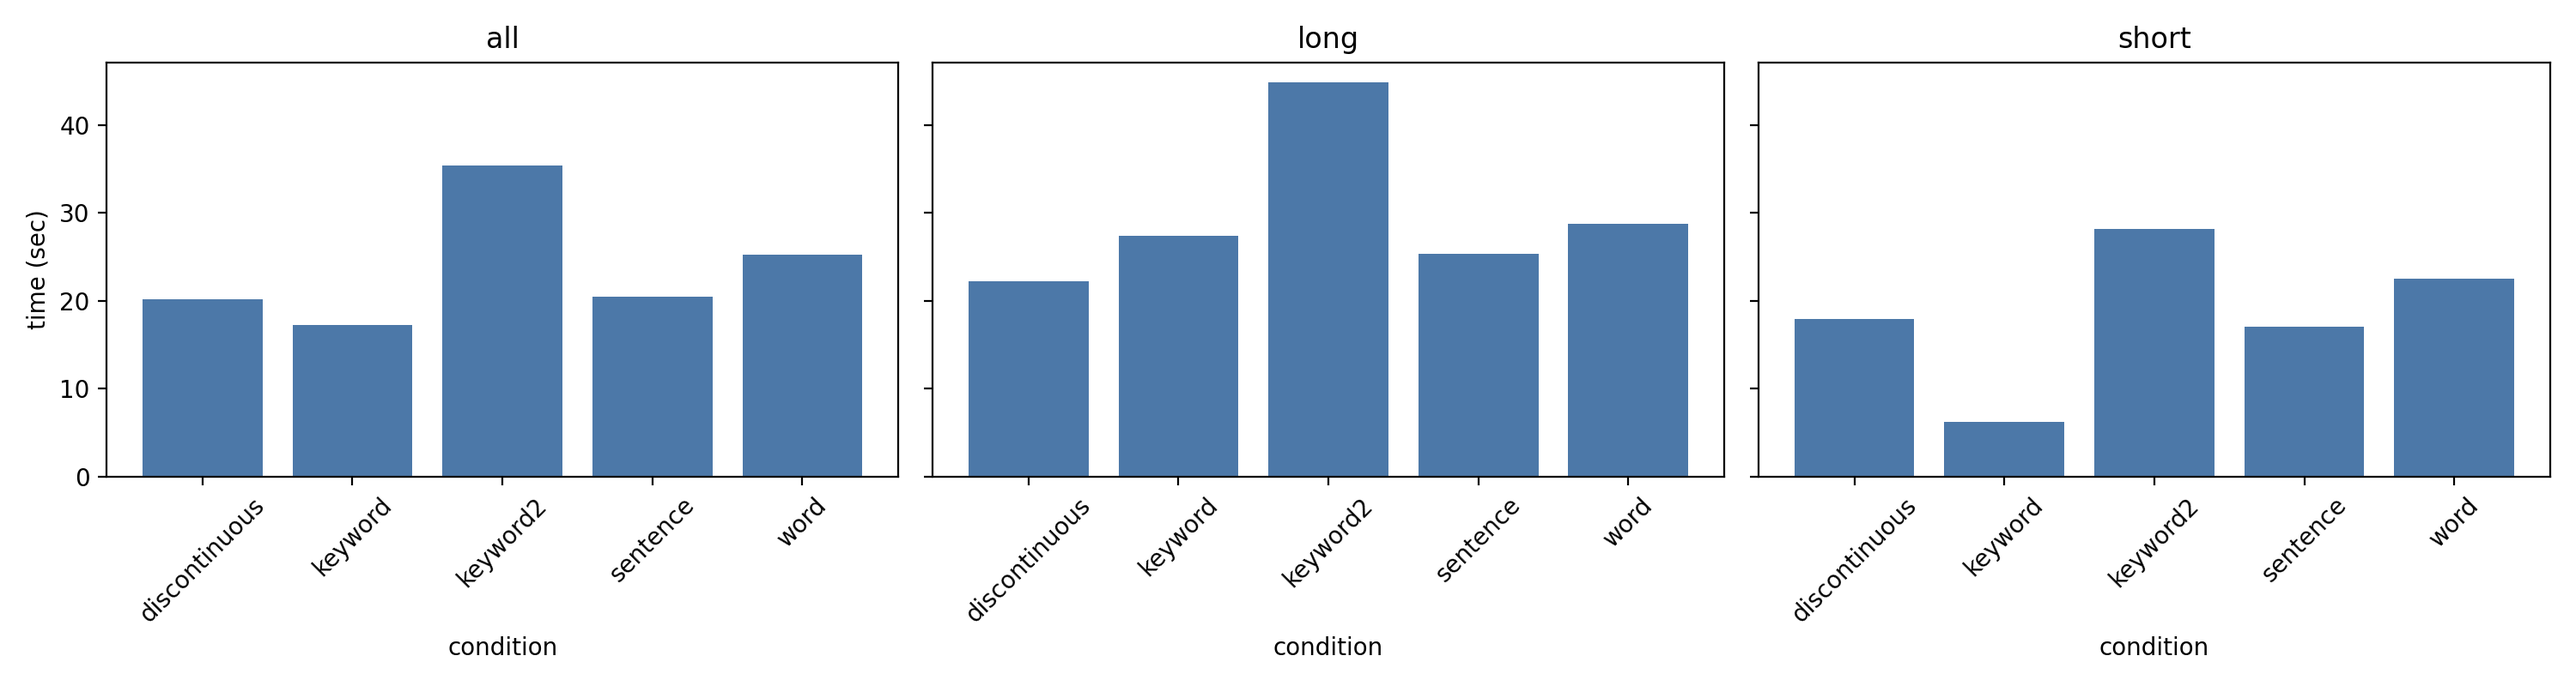
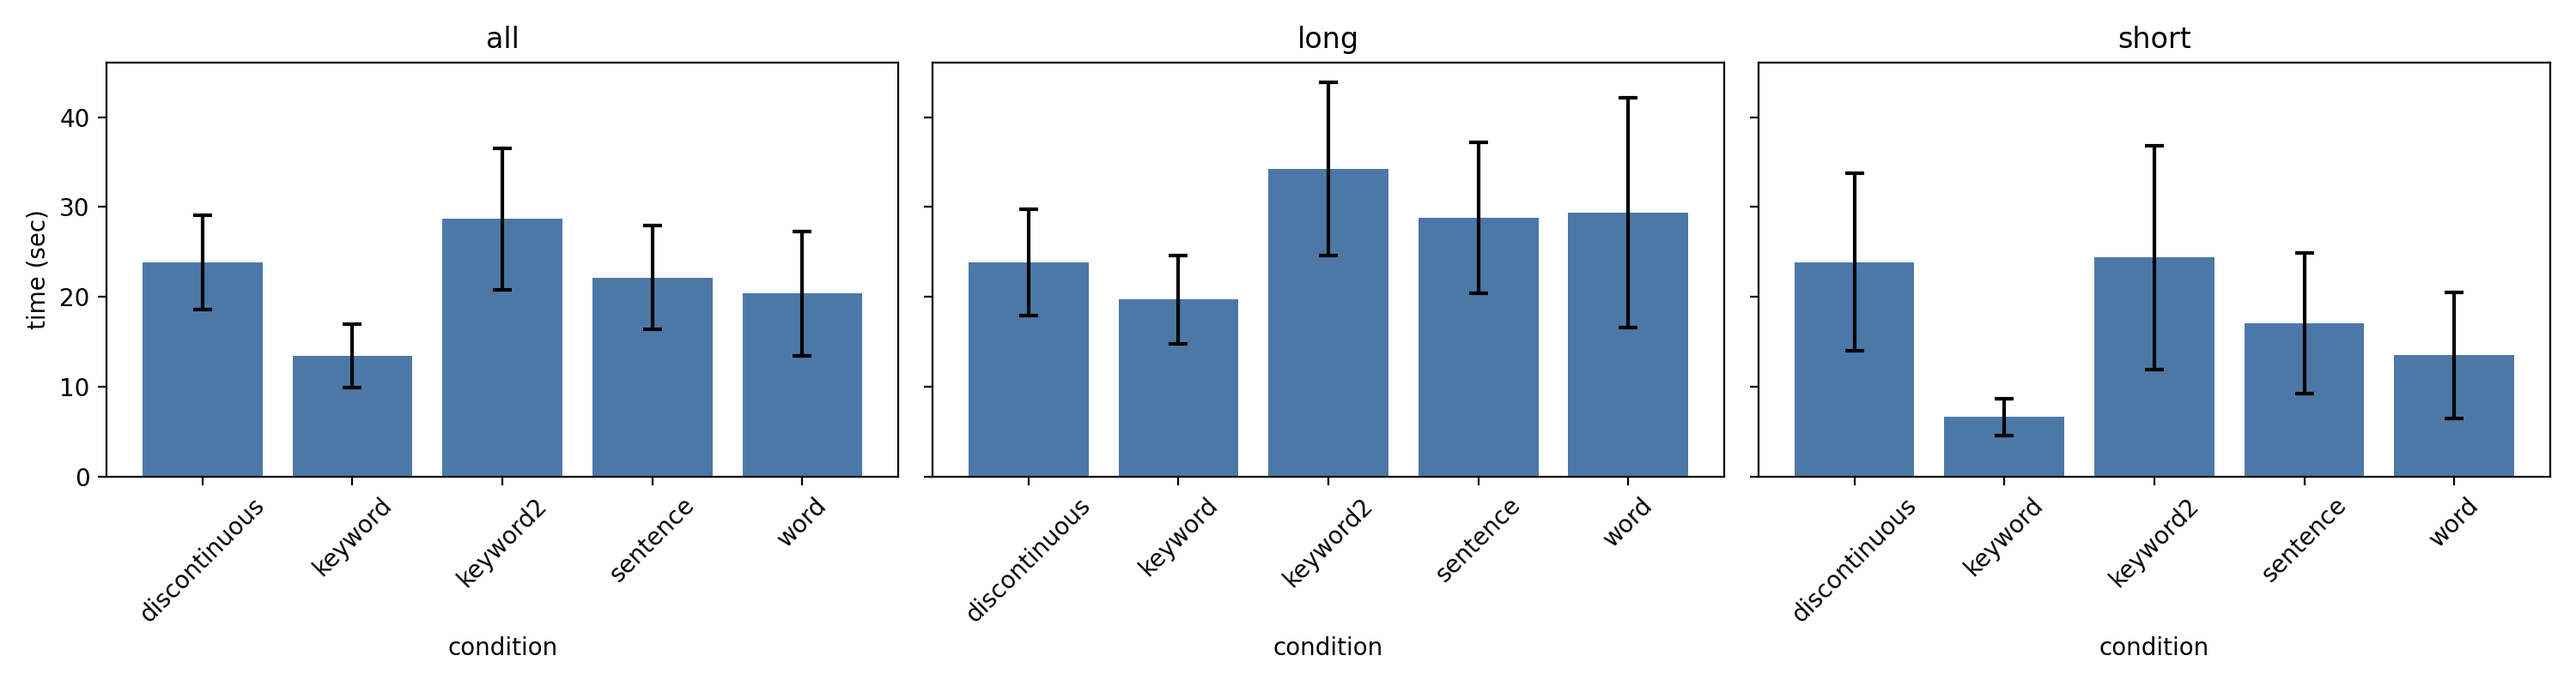
results after p4

diff --git a/search/scripts/analysis/plot_target_word_uniqueness_study.py b/search/scripts/analysis/plot_target_word_uniqueness_study.py
@@ -182,18 +182,24 @@ def plot_panel(ax, stats_by_video: list[dict], key: str, color: str, ylabel: str
     labels = [item["video_id"] for item in stats_by_video]
     datasets = [item[key]["values"] for item in stats_by_video]
 
-    violin = ax.violinplot(
+    boxplot = ax.boxplot(
         datasets,
         positions=x,
-        widths=0.82,
-        showmeans=False,
-        showmedians=False,
-        showextrema=False,
+        widths=0.62,
+        patch_artist=True,
+        showfliers=False,
     )
-    for body in violin["bodies"]:
-        body.set_facecolor(color)
-        body.set_edgecolor("black")
-        body.set_alpha(0.5)
+    for box in boxplot["boxes"]:
+        box.set_facecolor(color)
+        box.set_edgecolor("black")
+        box.set_alpha(0.5)
+    for median in boxplot["medians"]:
+        median.set_color("black")
+        median.set_linewidth(1.5)
+    for whisker in boxplot["whiskers"]:
+        whisker.set_color("black")
+    for cap in boxplot["caps"]:
+        cap.set_color("black")
 
     for idx, item in enumerate(stats_by_video):
         values = item[key]["values"]
@@ -240,6 +246,7 @@ def main():
         fontsize=8,
         bbox={"facecolor": "white", "alpha": 0.8, "edgecolor": "none"},
     )
+    axes[0].set_ylim(bottom=0)
     plot_panel(
         axes[1],
         stats_by_video,
@@ -260,6 +267,7 @@ def main():
         fontsize=8,
         bbox={"facecolor": "white", "alpha": 0.8, "edgecolor": "none"},
     )
+    axes[1].set_ylim(bottom=0)
     plot_panel(
         axes[2],
         stats_by_video,
@@ -281,6 +289,7 @@ def main():
         fontsize=8,
         bbox={"facecolor": "white", "alpha": 0.8, "edgecolor": "none"},
     )
+    axes[2].set_ylim(bottom=0)
 
     fig.suptitle("Study Target vs 6-Min Transcript Uniqueness (Videos 6-10)", fontsize=14, fontweight="bold")
     plt.tight_layout()
